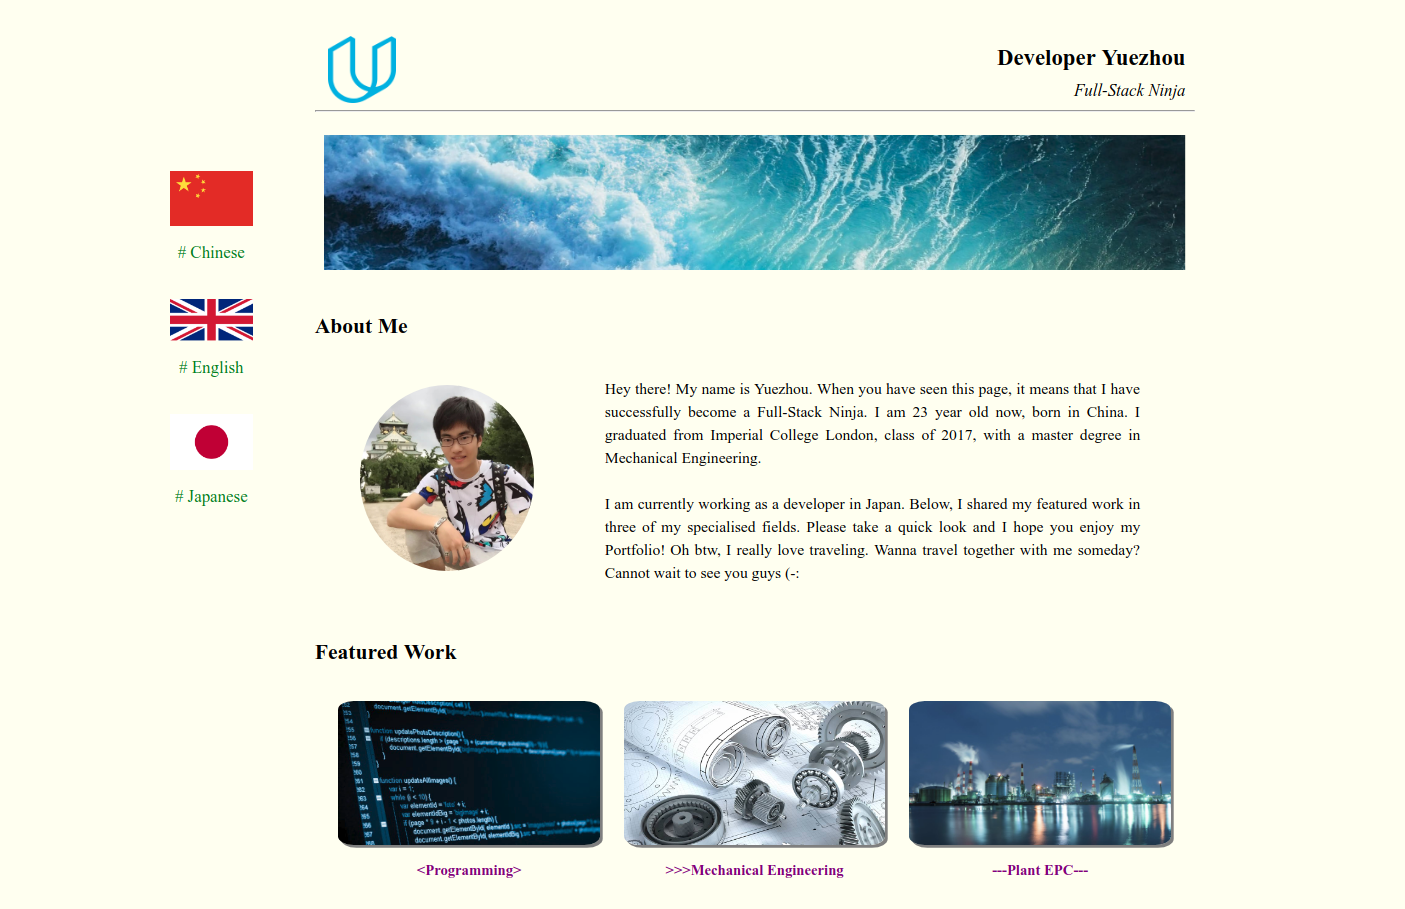
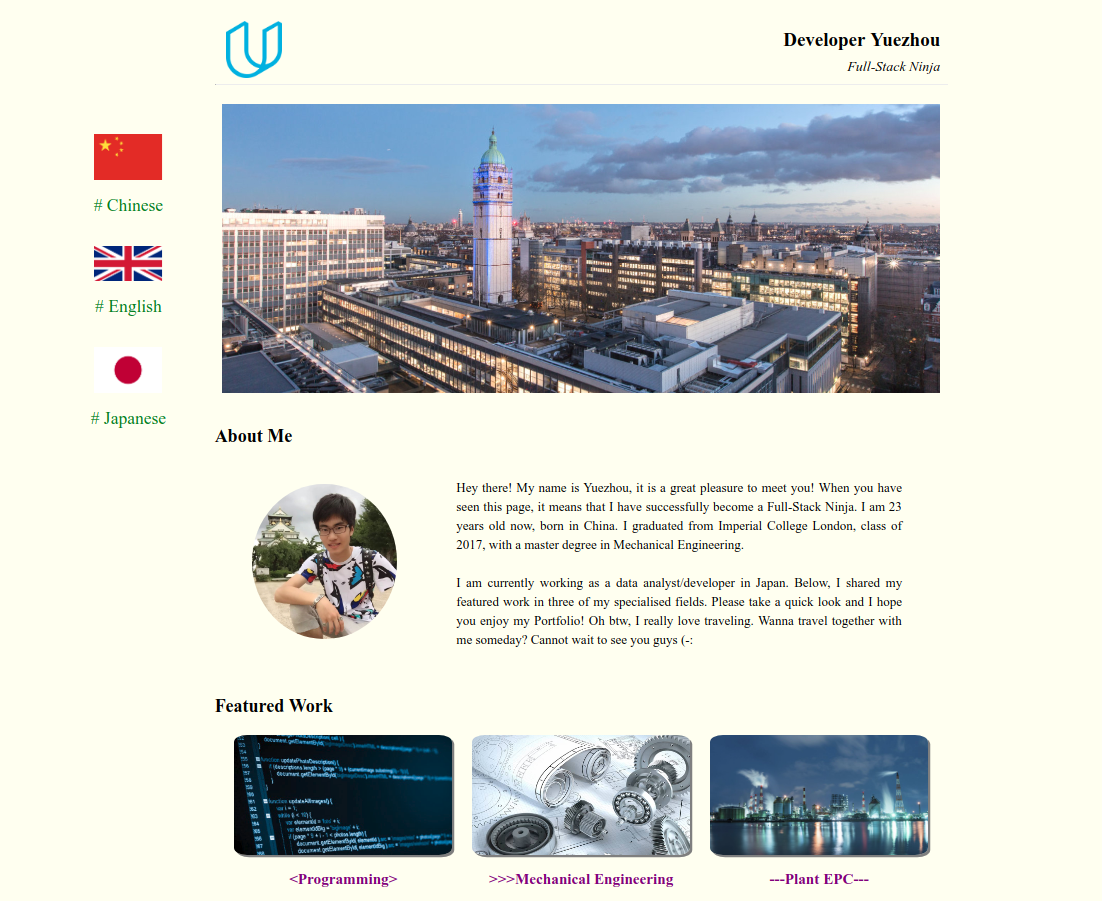
Just some minor updates

diff --git a/yuezhou.html b/yuezhou.html
@@ -45,13 +45,13 @@
                         <img src="images/yuezhou.jpg" alt="Yuezhou" class="about-me-image">
                     </div>
                     <div class="about-me-content-box">
-                        <p class="about-me-content">Hey there! My name is Yuezhou.
+                        <p class="about-me-content">Hey there! My name is Yuezhou, it is a great pleasure to meet you!
                             When you have seen this page, it means that I have successfully become a Full-Stack Ninja.
-                            I am 23 year old now, born in China.
+                            I am 23 years old now, born in China.
                             I graduated from Imperial College London, class of 2017, with a master degree in Mechanical Engineering.
                             <br>
                             <br>
-                            I am currently working as a developer in Japan.
+                            I am currently working as a data analyst/developer in Japan.
                             Below, I shared my featured work in three of my specialised fields. 
                             Please take a quick look and I hope you enjoy my Portfolio!
                             Oh btw, I really love traveling.

diff --git a/README.md b/README.md
@@ -1,21 +1,32 @@
-## Simple Portfolio Page with HTML and CSS (No library or framework)
+# Simple Portfolio Page with HTML and CSS (No library or framework)
 
 
 ![Screenshot](/screenshot.png)
 
 
-### Feature Updates:
+## How to take a glance at this prodigious portfolio?
+  Simply download or clone this portfolio repository, and use any desirable web browser to open the **_yuezhoulu.html_** file to get a glimpse of this awesome and stunning portfolio page.
+
+
+## Feature Updates:
+* _**updated on Oct 24, 2018:**_
+    >* Revised grammar mistakes in the main paragraph.
+    >* Updated the screenshot of the portfolio.
+
 * _**updated on Oct 23, 2018:**_
-    >* Fully responsive without hiding any information on various browser sizes.
-    >+ Adjusted both fig-caption and language font size to a smaller vw value when the viewport width is larger than 1000px.
-    >- Used the simple one declaration `padding: ....` and `margin: ....` instead of using specific `padding-top/right/bottom/left` and `margin-top/right/bottom/left`.
+    >* Adjusted both fig-caption and language font size to a smaller vw value when the viewport width is larger than 1000px.
+    >* Used the simple one declaration `padding: ....` and `margin: ....` instead of using specific `padding-top/right/bottom/left` and `margin-top/right/bottom/left`.
     >* Learned how to write Markdown from this stupendous [Markdown Tutorial][Markdown Tutorial] website.
     >+ Created this tremendous, magnificient and marvelous README.md file.
     >- Changed the banner image, and added CSS image hover overlay animation for fun.
 
 [Markdown Tutorial]: https://www.markdowntutorial.com/
 
+* **_updated on Oct 22, 2018:_**
+    >+ Renovated this gorgeous personal portfolio webpage based on its original version.
+    >- Made the page fully responsive without hiding any information on various browser sizes.
 
-### References:
+
+## References:
 1. [HTML Validator](https://validator.w3.org/#validate_by_input)
 2. [CSS Validator](https://jigsaw.w3.org/css-validator/#validate_by_input)
